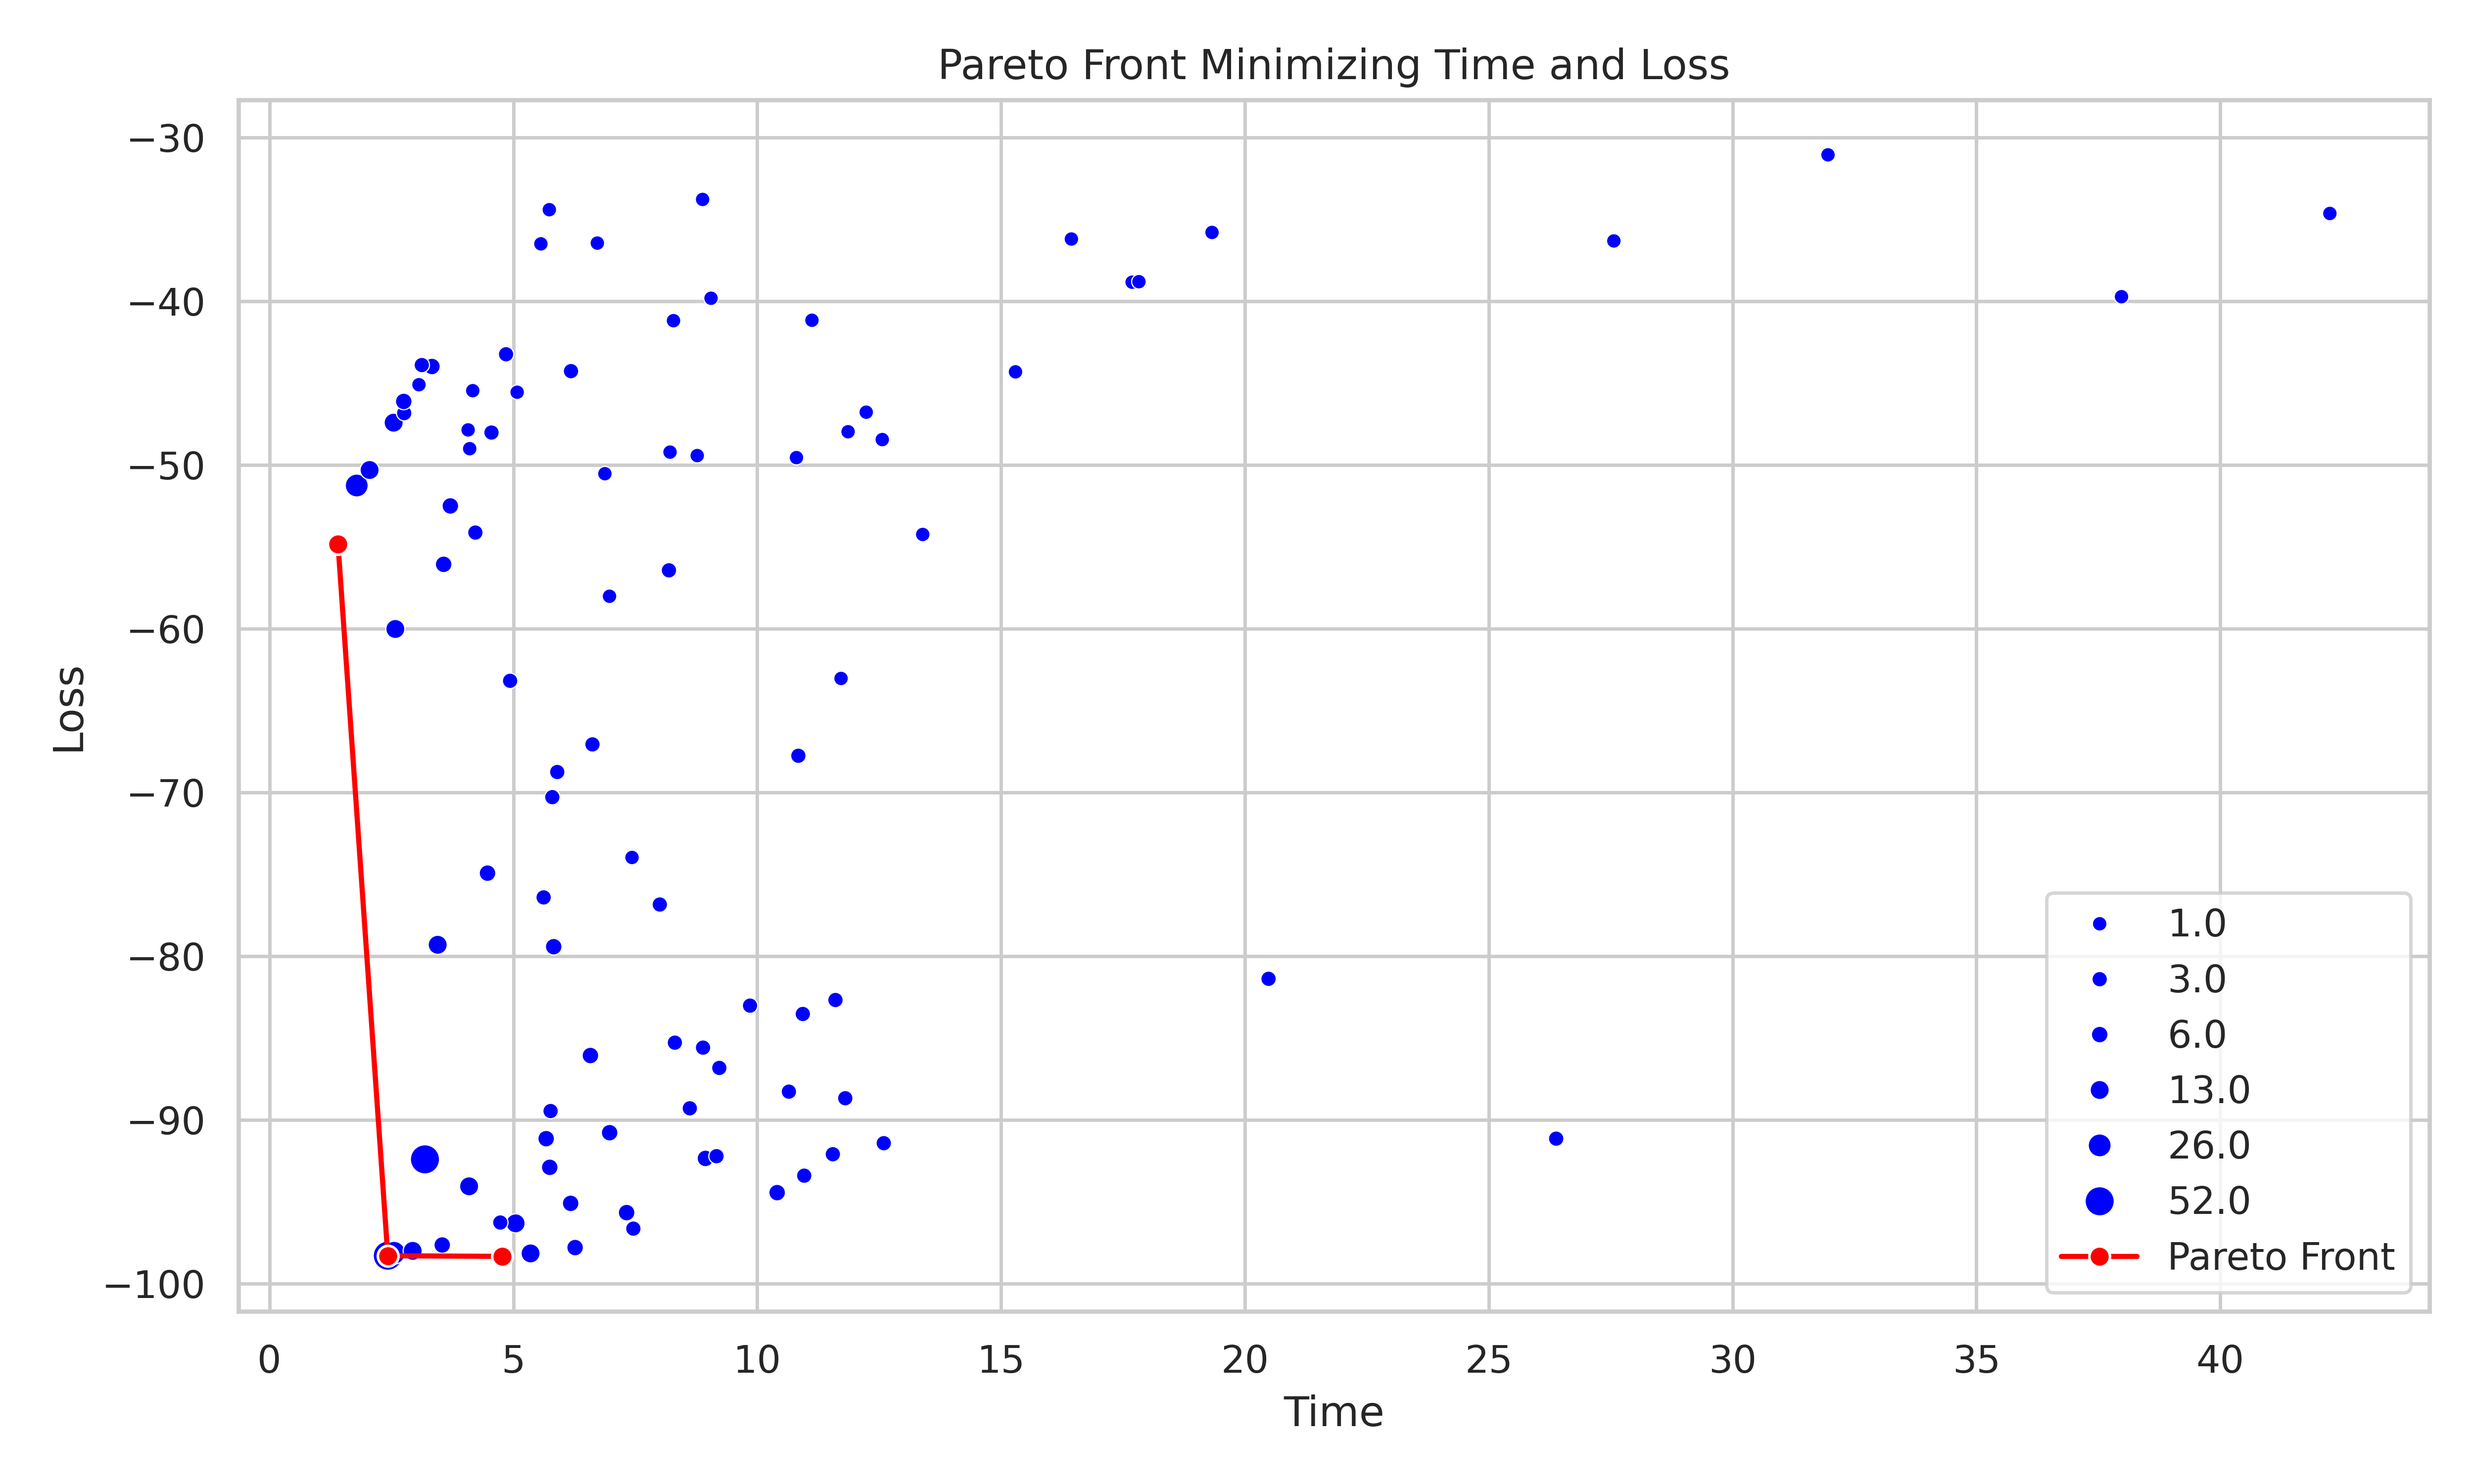
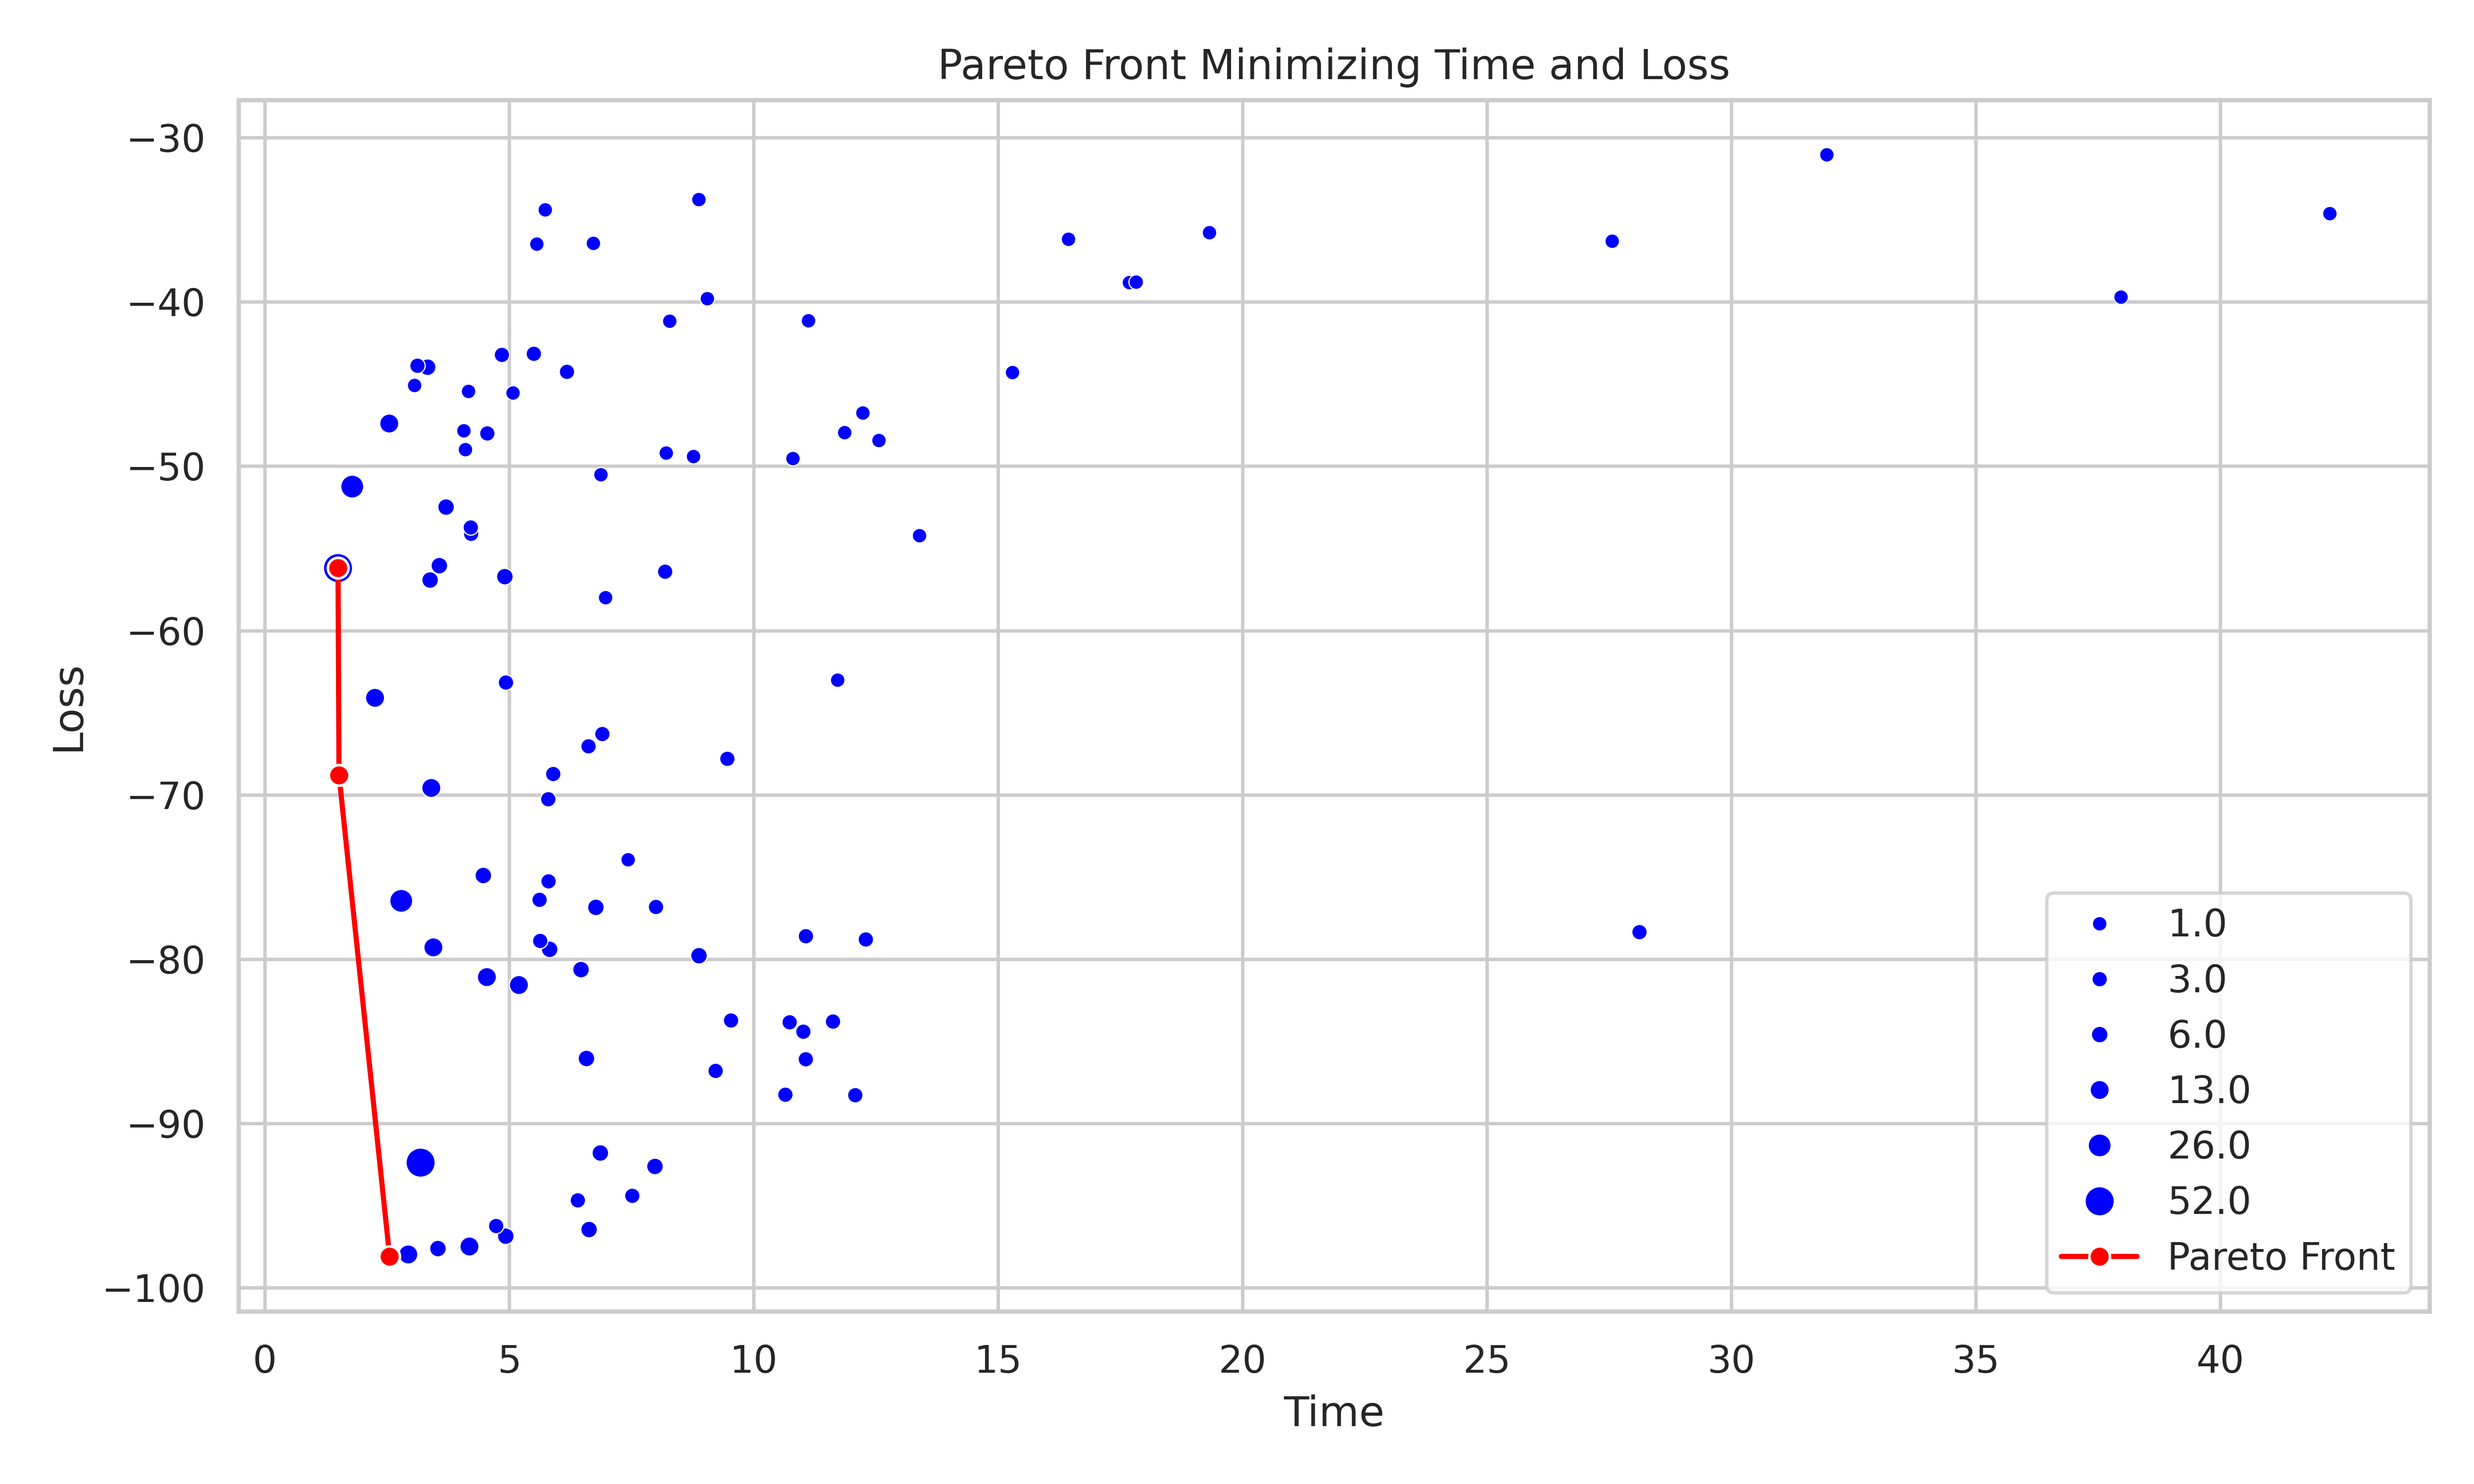
added NSGA-II-based MO-optimizer for MO-PriorBand

diff --git a/neps/optimizers/multi_objective/nsga_ii.py b/neps/optimizers/multi_objective/nsga_ii.py
@@ -1,0 +1,97 @@
+import numpy as np
+from collections import defaultdict
+from neps.utils.types import ConfigResult
+from neps.optimizers.multi_objective.multi_objective_optimizer import MultiObjectiveOptimizer
+from neps.search_spaces.search_space import SearchSpace
+
+import logging
+logger = logging.getLogger("EpsNet")
+
+
+class NSGAII(MultiObjectiveOptimizer):
+    __name__ = "NSGAII"
+
+    """Class for the NSGA-II-based multi-objective optimization algorithm."""
+    def __init__(
+            self,
+            objectives: list[str],
+            reference_point: list[float] | None = None,
+        ) -> None:
+        """
+        Initialize the NSGA-II-based multi-objective optimizer.
+        
+        Parameters
+        ----------
+        objectives : list[str]
+            List of objectives to optimize.
+        reference_point : list[float] | None
+            Reference point for the hypervolume calculation. Defaults to [0.0] * len(objectives).
+        """
+        super().__init__(objectives=objectives, reference_point=reference_point)
+
+        logger.info("Initializing NSGA-II based MO-optimizer.")
+        self._results_per_rung = defaultdict(dict)
+        self._rung = 0
+    
+    def add_config(self, config_id: str, is_default_config: bool = False) -> None:
+        """Add a configuration to the optimizer."""
+        pass
+
+    def add_config_result(self, config_result: ConfigResult) -> None:
+        """Register the result of a config to update the objective bounds."""
+        super().add_config_result(config_result)
+
+        config_id, rung = config_result.id.split("_")
+        config_id, rung = int(config_id), int(rung)
+
+        self._results_per_rung[rung][config_id] = config_result
+        self._rung = rung
+
+    def crowding_distance_assignment(self, configs: dict[str, ConfigResult]) -> dict[str, float]:
+        """Assign crowding distances to the configurations."""
+        distances = {c: 0. for c in configs}
+
+        for o in self._objectives: 
+            o_min, o_max = self._objective_bounds[o]
+            sorted_configs = sorted(configs.keys(), key=lambda c: configs[c].result[o])
+
+            distances[sorted_configs[0]] = np.inf
+            distances[sorted_configs[-1]] = np.inf
+
+            for i in range(2, len(sorted_configs) - 1):
+                config_key = sorted_configs[i]
+                distances[config_key] += (configs[sorted_configs[i + 1]].result[o] - configs[sorted_configs[i + 1]].result[o]) / (o_max - o_min)
+
+        return distances    
+
+    def get_result(self, config_result: ConfigResult) -> float:
+        """Get the result of a configuration."""
+        if not isinstance(config_result.result, dict):
+            raise ValueError("ConfigResult.result should be a dictionary.")
+        
+        rung = int(config_result.id.split("_")[1])
+        rung_results = self._results_per_rung[rung]
+        fronts = self._non_dominated_sorting(rung_results)
+        sorted_configs = []
+
+        for front in fronts:
+            front_results = {c: rung_results[c] for c in front}
+            crowding_distance = self.crowding_distance_assignment(front_results)
+            _sorted_configs = sorted(
+                crowding_distance.keys(),
+                key=lambda c: (crowding_distance[c], self._compute_hypervolume(rung_results[c]))
+            )
+            sorted_configs.extend(_sorted_configs)
+
+        # Now we have a list of config IDs sorted by their distance to the non-dominated front
+        # The rank is the position of the configuration in the sorted list
+        # We want to have a list of len(sorted_configs) with the rank of each configuration normalized to [0, 1]
+        ranks = np.linspace(0, 1, len(sorted_configs))
+        ranks = dict(zip(sorted_configs, ranks))
+
+        assert len(sorted_configs) == len(rung_results)
+
+        config_rank = ranks[int(config_result.id.split("_")[0])]
+
+        return config_rank
+       

diff --git a/neps/optimizers/multi_objective/multi_objective_optimizer.py b/neps/optimizers/multi_objective/multi_objective_optimizer.py
@@ -26,6 +26,15 @@ class MultiObjectiveOptimizer(ABC):
         self._objectives = objectives
         self._reference_point = reference_point or [0.0] * len(objectives)
         self._all_results: dict[str, ConfigResult] = {}
+        self._objective_bounds = {objective: (np.inf, -np.inf) for objective in objectives}
+
+    def _normalize_objective(self, objective: str, value: float) -> float:
+        """Normalize the objective value."""
+        lower, upper = self._objective_bounds[objective]
+        if np.isinf(lower) or np.isinf(upper) or lower == upper:
+            return value
+
+        return (value - lower) / (upper - lower)
 
     def _non_dominated_sorting(self, configs: dict[Any, ConfigResult]) -> list[list[Any]]:
         """Get the non-dominated configurations."""
@@ -75,22 +84,28 @@ class MultiObjectiveOptimizer(ABC):
 
         return [c.config for c in pareto_front]
     
+    def _compute_hypervolume(self, config_result: ConfigResult) -> float:
+        if config_result.result == "error":
+            return 0
+
+        objective_values = [
+            self._normalize_objective(
+                objective,
+                config_result.result[objective]
+            ) for objective in self._objectives
+        ]
+
+        return float(np.prod([self._reference_point[i] - objective_values[i] for i in range(len(objective_values))]))
+
     def get_incumbent(self) -> SearchSpace:
         """Compute the incumbent configuration based on the hypervolume."""
         pareto_front = self._get_pareto_front()
-        
+
         incumbent_config = None
         incumbent_hypervolume = -np.inf
 
-        hypervolumes = []
-
         for config_result in pareto_front:
-            if config_result.result == "error":
-                continue
-
-            objectives = [config_result.result[objective] for objective in self._objectives]
-            hypervolume = np.prod([self._reference_point[i] - objectives[i] for i in range(len(objectives))])
-            hypervolumes.append(hypervolume)
+            hypervolume = self._compute_hypervolume(config_result)
 
             if hypervolume > incumbent_hypervolume:
                 incumbent_config = config_result.config
@@ -111,6 +126,13 @@ class MultiObjectiveOptimizer(ABC):
         if not isinstance(config_result.result, dict):
             raise ValueError("ConfigResult.result should be a dictionary.")
         self._all_results[config_result.id] = config_result
+        self._objective_bounds = {
+            objective: (
+                min(self._objective_bounds[objective][0], config_result.result[objective]),
+                max(self._objective_bounds[objective][1], config_result.result[objective]),
+            )
+            for objective in self._objectives
+        }
 
     @abstractmethod
     def get_result(self, config_result: ConfigResult) -> float:

diff --git a/neps/optimizers/multi_objective/mo_priorband.py b/neps/optimizers/multi_objective/mo_priorband.py
@@ -17,8 +17,7 @@ from neps.optimizers.multi_fidelity.promotion_policy import SyncPromotionPolicy
 from neps.optimizers.multi_fidelity.sampling_policy import ModelPolicy
 from neps.optimizers.multi_objective.mo_sample_policy import MOEnsemblePolicy
 from neps.optimizers.multi_objective.multi_objective_optimizer import MultiObjectiveOptimizer
-from neps.optimizers.multi_objective.epsnet import EpsNet
-from neps.optimizers.multi_objective.parego import ParEGO
+from neps.optimizers.multi_objective.nsga_ii import NSGAII
 
 
 class MOPriorBand(PriorBand):
@@ -27,7 +26,7 @@ class MOPriorBand(PriorBand):
             pipeline_space: SearchSpace,
             budget: int,
             objectives: list[str],
-            mo_optimizer: type[MultiObjectiveOptimizer] = EpsNet,
+            mo_optimizer: type[MultiObjectiveOptimizer] = NSGAII,
             incumbent_selection: Literal["hypervolume", "pareto_front"] = "hypervolume",
             reference_point: list[float] | None = None,
             eta: int = 3,
@@ -104,8 +103,6 @@ class MOPriorBand(PriorBand):
 
             self.sampling_args = {"inc": inc, "weights": sampling_args}
         else:
-            # For multi-objective optimization, the incumbent should be the
-            # Pareto front, not the best performing configuration.
             if self.mo_optimizer is not None:
                 if self.inc_sample_type != "mutation":
                     raise ValueError(
@@ -118,6 +115,10 @@ class MOPriorBand(PriorBand):
                         "Please set `sampling_policy=MOEnsemblePolicy`."
                     )
                 
+                # Here, we either sample a single point with highest
+                # hypervolume or the Pareto front. For the latter,
+                # the sampling policy will randomly pick a point from
+                # the Pareto front for each sampled configuration
                 if self.incumbent_selection == "hypervolume":
                     inc = self.mo_optimizer.get_incumbent()
                     self.logger.info("Using hypervolume as incumbent.")

diff --git a/neps_examples/efficiency/yahpo_compare.py b/neps_examples/efficiency/yahpo_compare.py
@@ -26,28 +26,21 @@ random.seed(SEED)
 
 
 for n_evaluations in N_EVALUATIONS:
-    result_parego_epsnet_inc = evaluate_mopb(
-        OPENML_TASK_ID,
-        n_evaluations,
-        eta=ETA,
-        incumbent_selection="pareto_front",
-        reference_point=[-30, 60]
-    )
-    result_parego_epsnet_hyperv = evaluate_mopb(
+    result_mopb = evaluate_mopb(
         OPENML_TASK_ID,
         n_evaluations,
         eta=ETA,
         incumbent_selection="hypervolume",
+        reference_point=[-30, 60]
     )
     result_smac = evaluate_smac(OPENML_TASK_ID, n_evaluations)
     result_smac_mf = evaluate_smac_mf(OPENML_TASK_ID, n_evaluations, eta=ETA)
 
-    result_parego_epsnet_inc["Approach"] = "MOPriorBand IncSamp"
-    result_parego_epsnet_hyperv["Approach"] = "MOPriorBand HyperV"
+    result_mopb["Approach"] = "MOPriorBand"
     result_smac["Approach"] = "SMAC"
     result_smac_mf["Approach"] = "SMAC MF"
 
-    result = pd.concat([result_parego_epsnet_inc, result_parego_epsnet_hyperv, result_smac, result_smac_mf])
+    result = pd.concat([result_mopb, result_smac, result_smac_mf])
 
     plt.figure(figsize=(10,6))
     plt.title(f"OpenML task {OPENML_TASK_ID}, {n_evaluations} evaluations")
